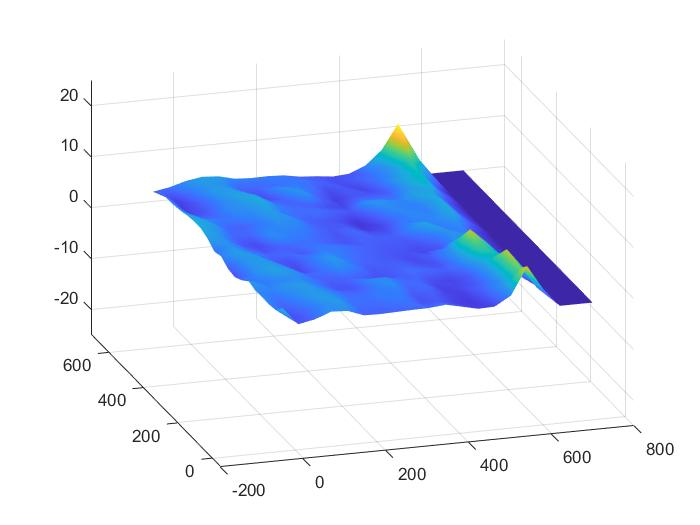
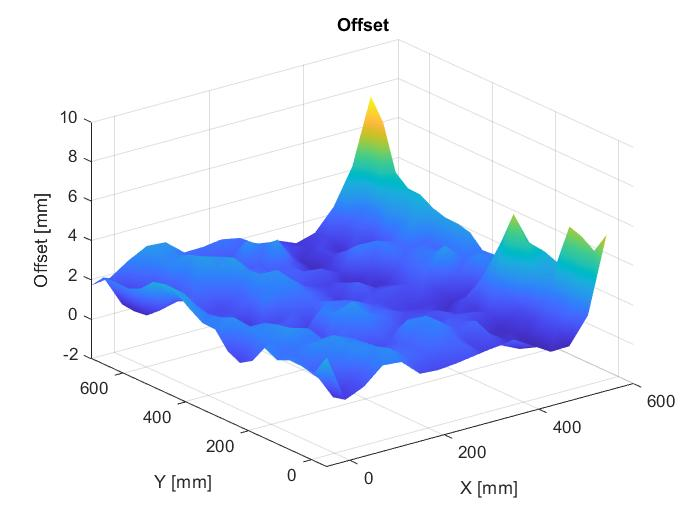
Update

diff --git a/MATLAB Files/mvOffset.m b/MATLAB Files/mvOffset.m
@@ -1,10 +1,16 @@
 x = [-50 0 50 100 150 200 250 300 350 400 450 500 550 600 650 700]
 y = [-50 0 50 100 150 200 250 300 350 400 450 500 550 600 650 700]
 z = transpose(testafvision)
-z = [z zeros(1,48)]
+nan = zeros(1,48)
+nan(:,:) = missing
+z = [z nan]
 z = reshape(z, [16,16])
 figure(1)
 stem3(x, y, z)
+title('Offset')
+xlabel('X [mm]')
+ylabel('Y [mm]')
+zlabel('Offset [mm]')
 grid on
 xv = linspace(min(x), max(x), 20);
 yv = linspace(min(y), max(y), 20);
@@ -13,5 +19,9 @@ Z = griddata(x,y,z,X,Y);
 figure(2)
 surf(X, Y, Z);
 grid on
-set(gca, 'ZLim',[-25 25])
+set(gca, 'ZLim',[-2 10])
 shading interp
+title('Offset')
+xlabel('X [mm]')
+ylabel('Y [mm]')
+zlabel('Offset [mm]')
